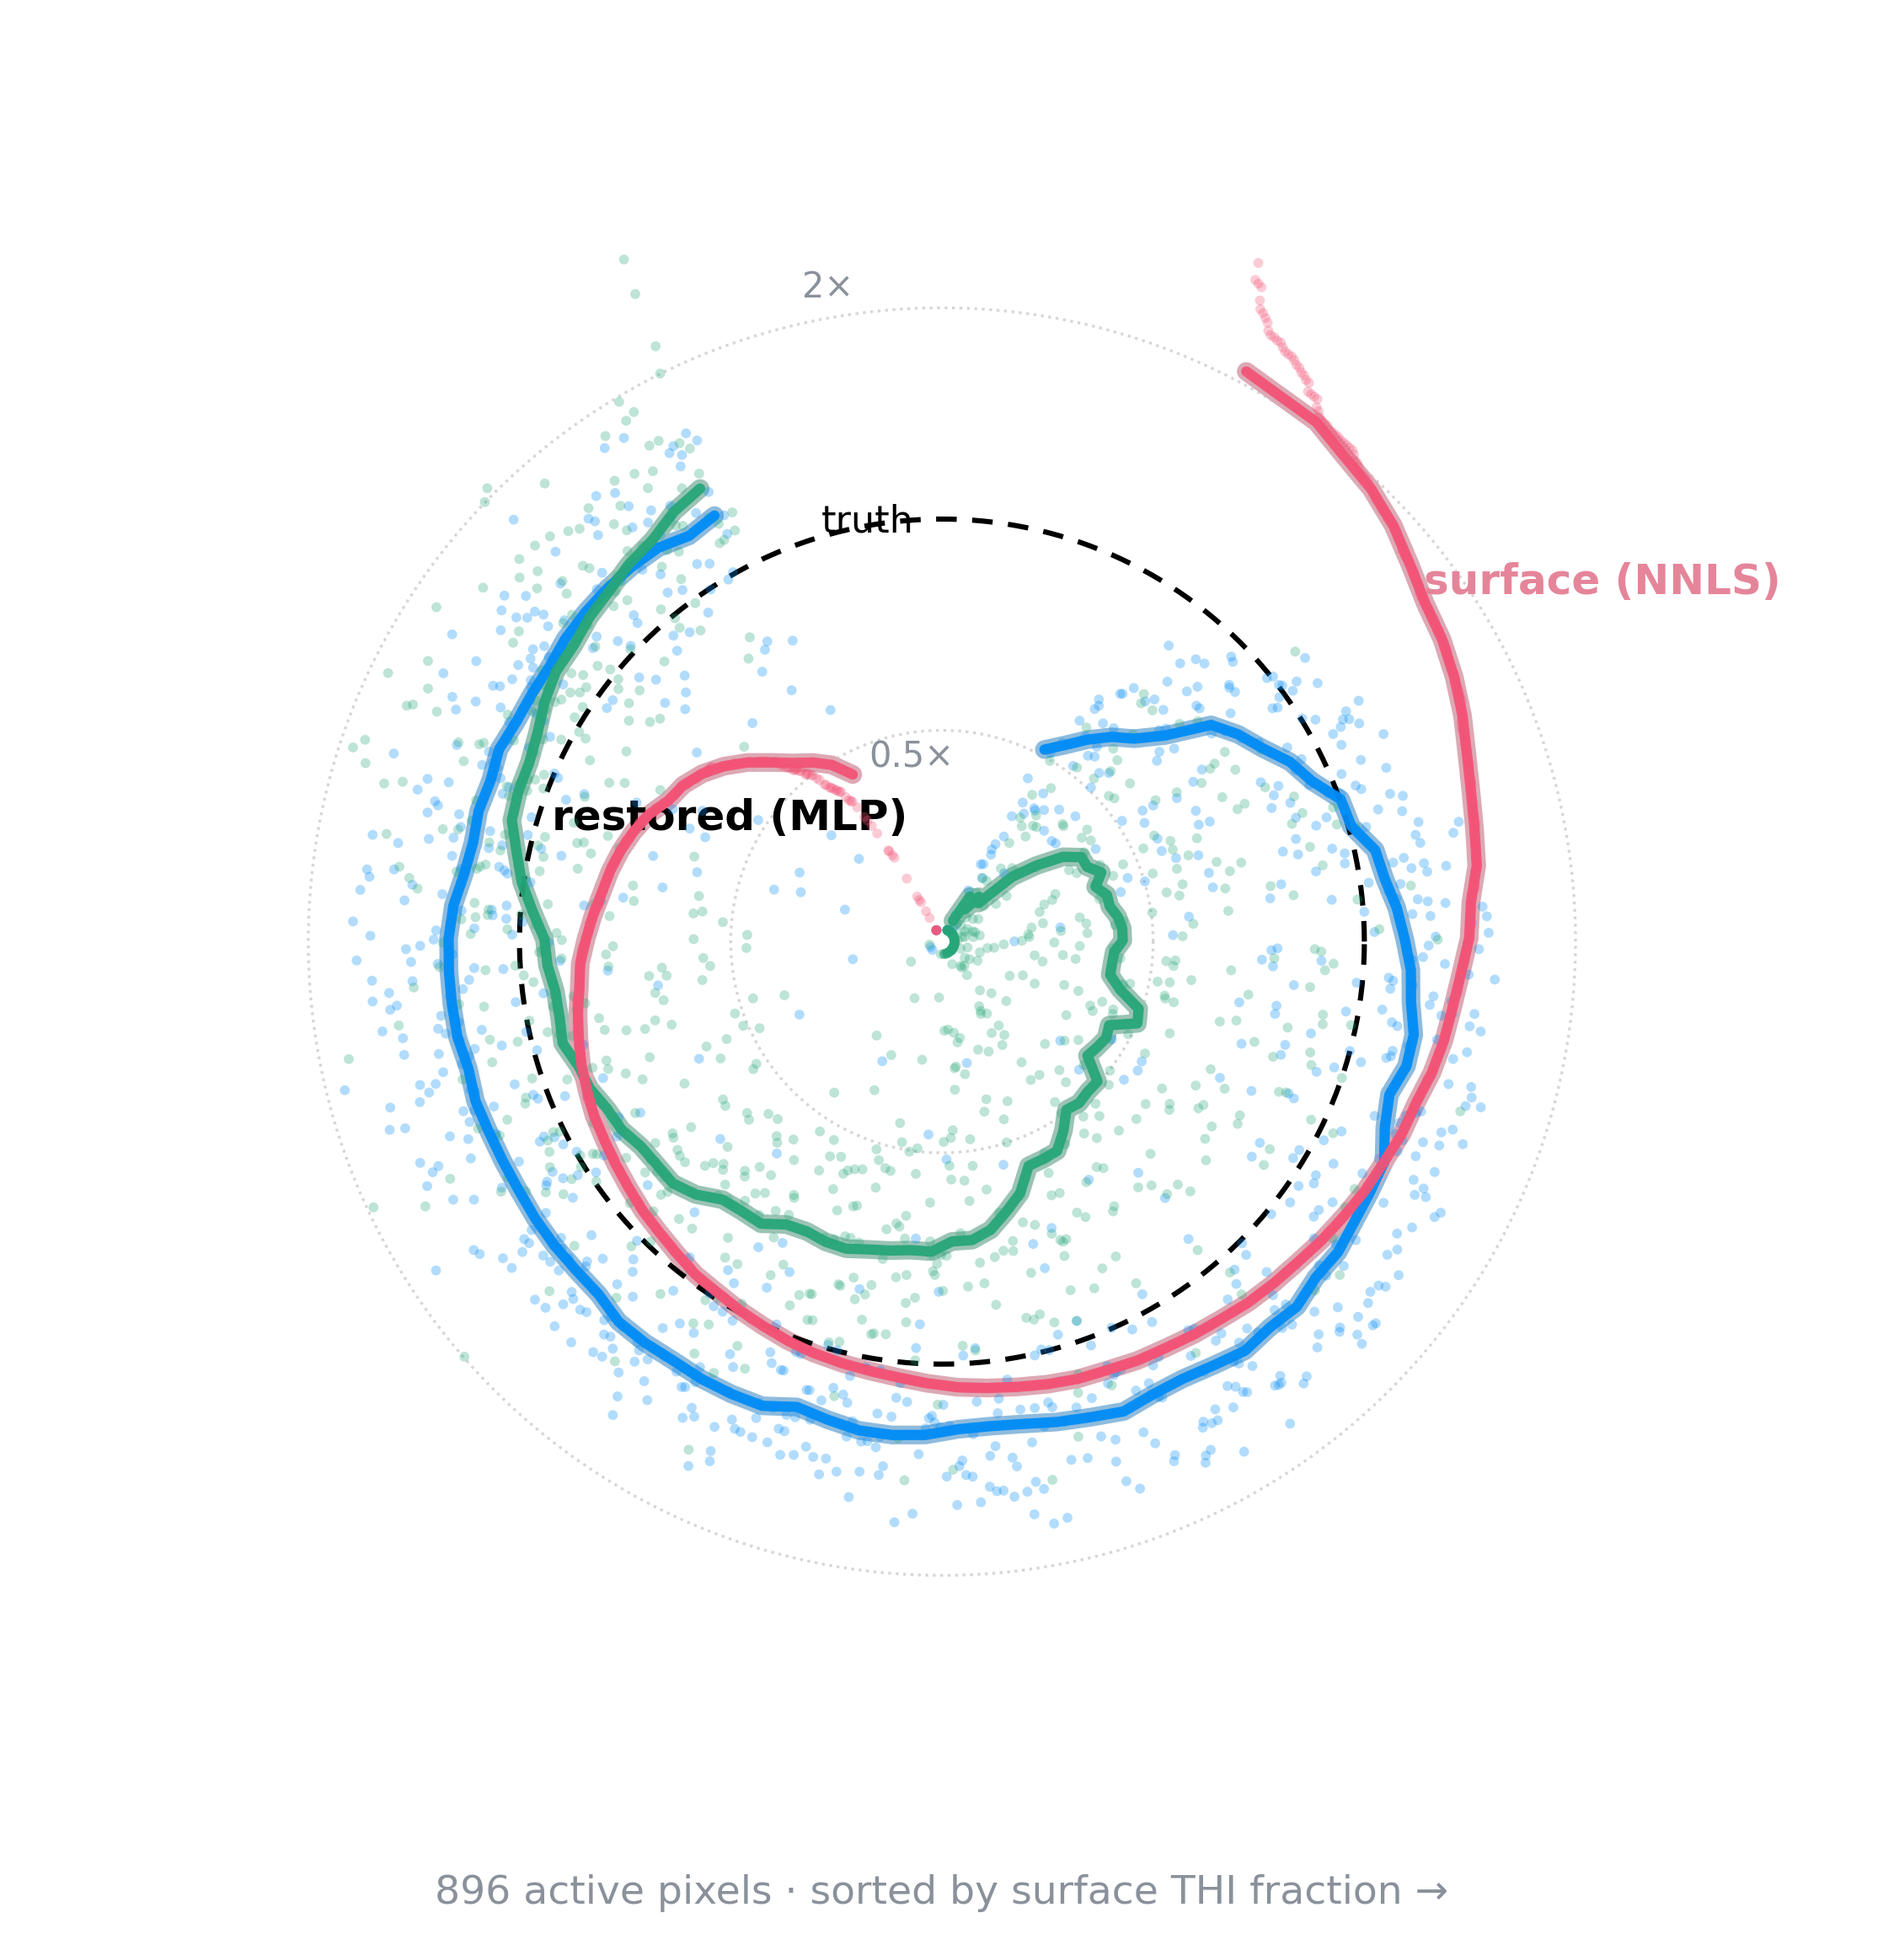
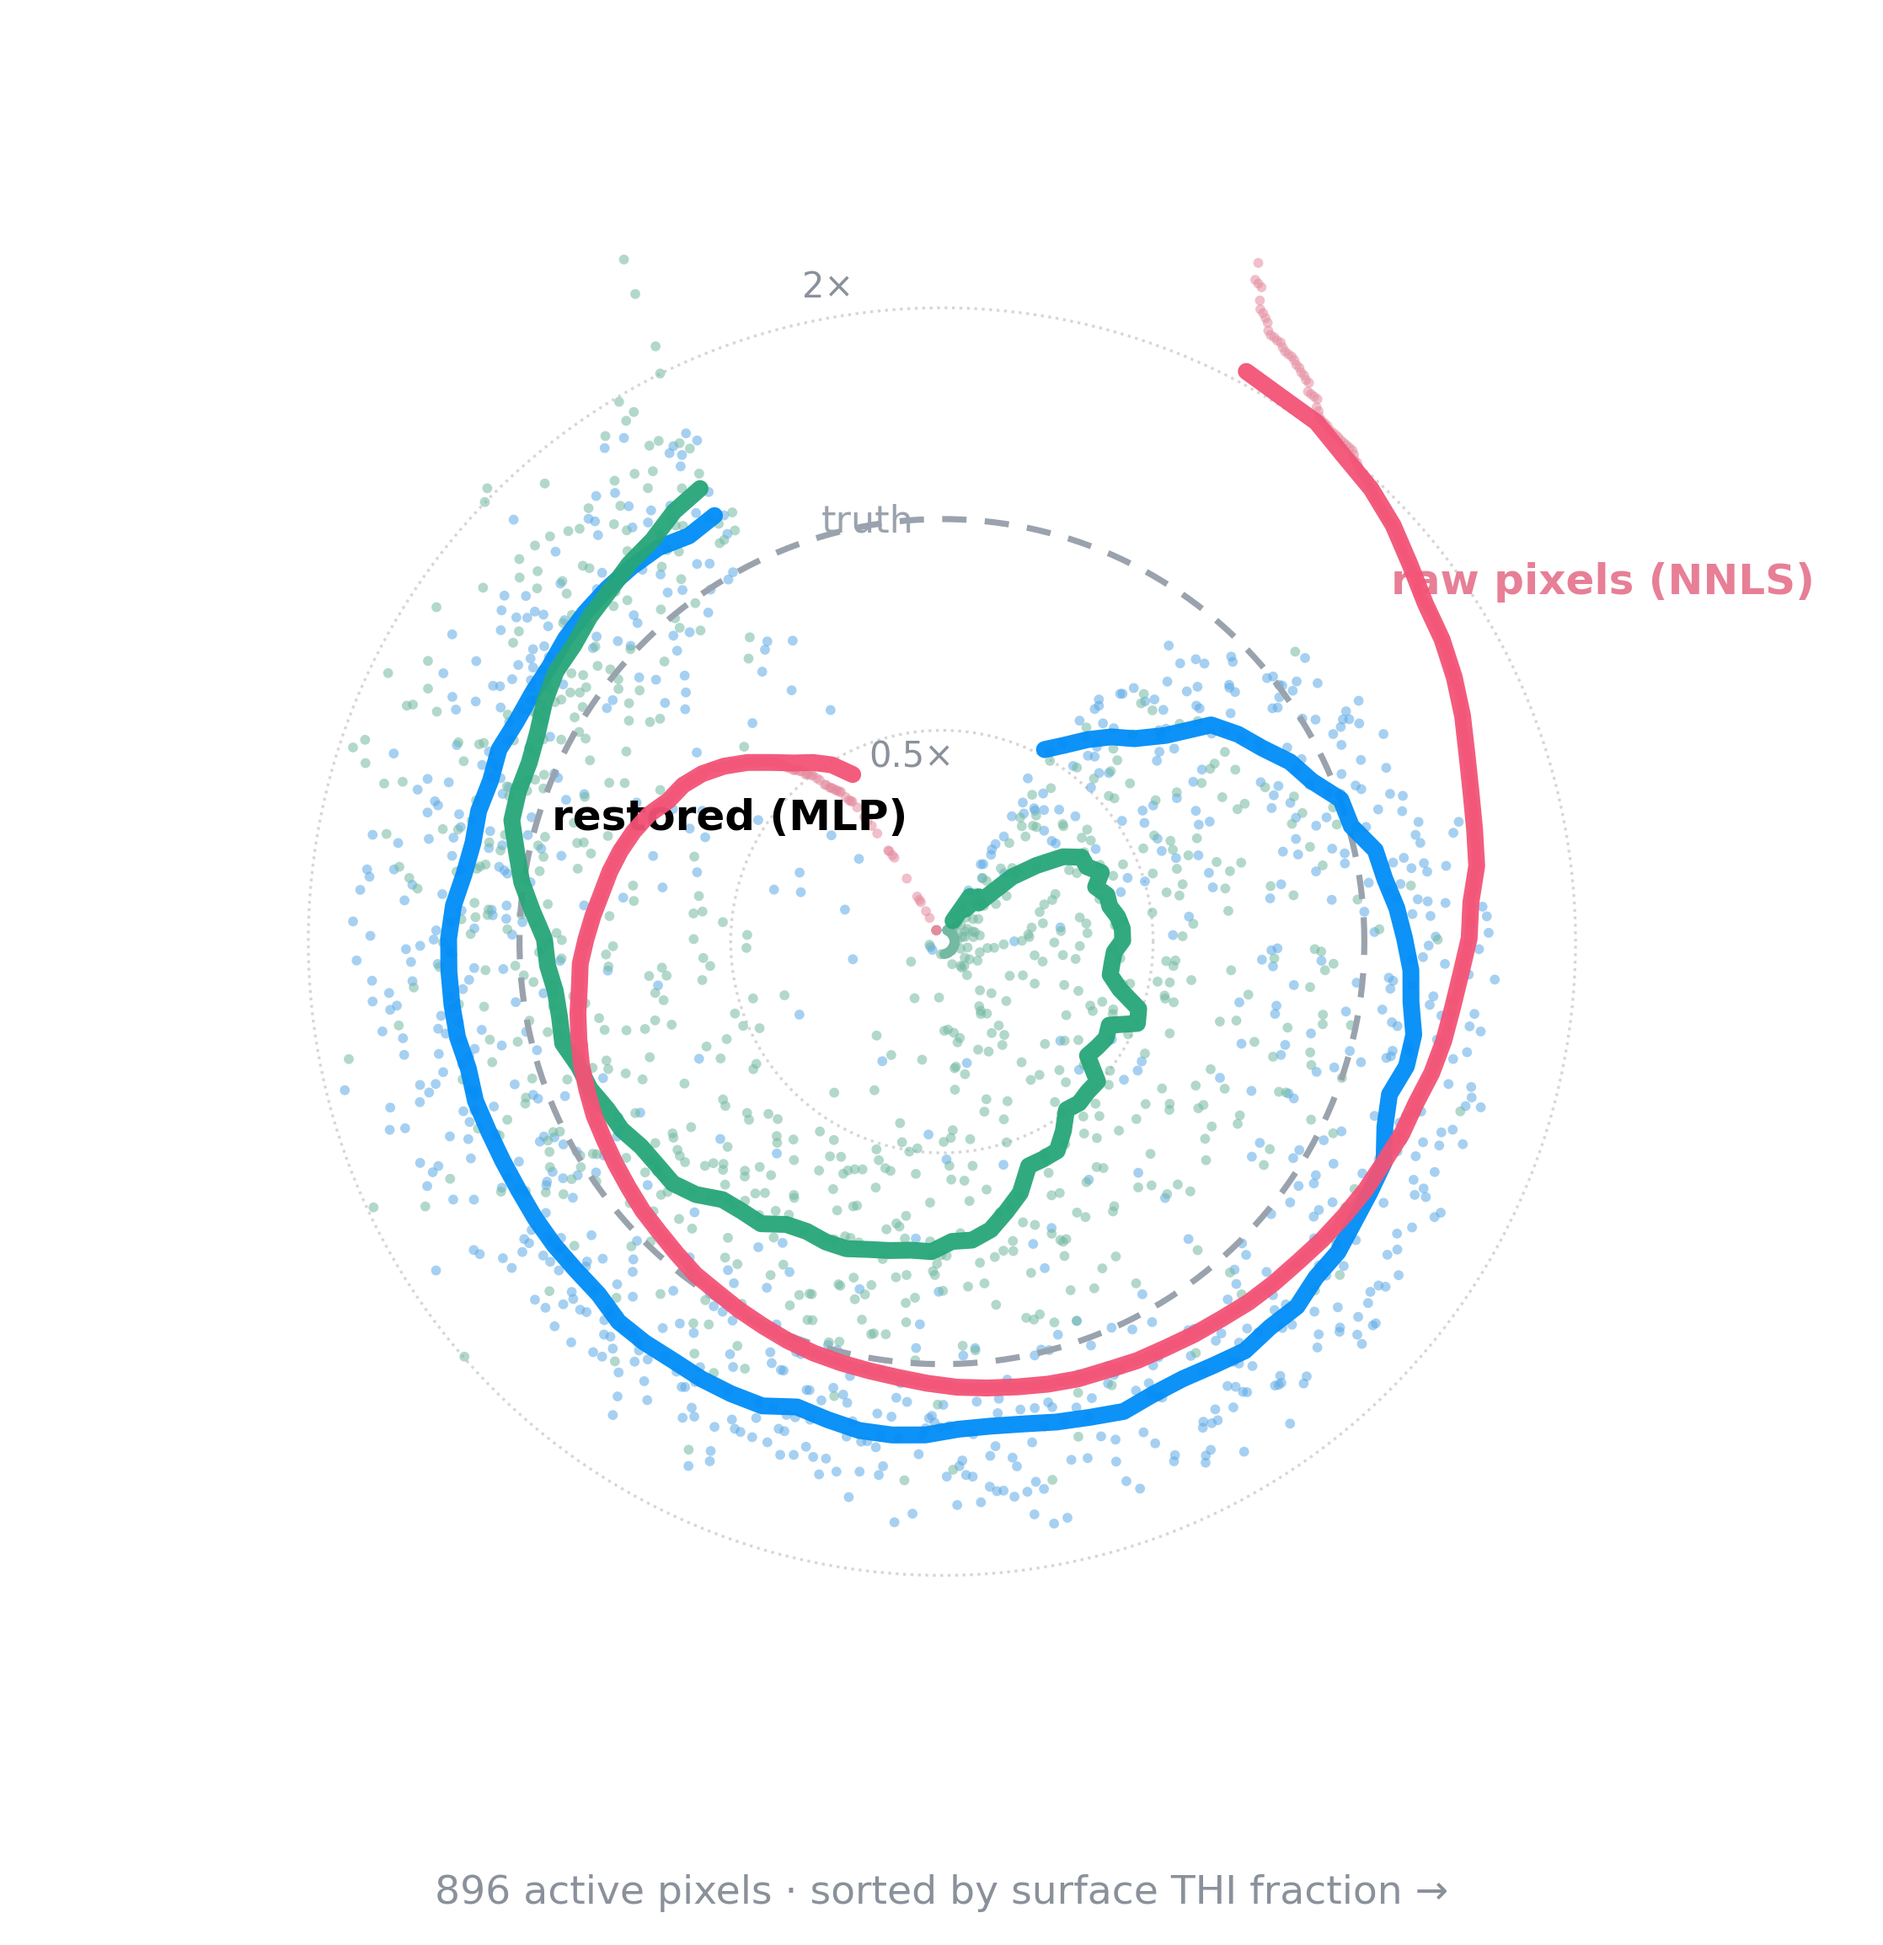
44f: graded green window (1.25/1.5/1.75/2x bands, gold truth ring); 58d/60: grammar = raw NNLS dots (muted) vs bold restored curves, grey truth

diff --git a/documentation/scripts/fig44f_spiral_graded.py b/documentation/scripts/fig44f_spiral_graded.py
@@ -1,0 +1,122 @@
+# -*- coding: utf-8 -*-
+"""44f — guided spiral, 초록 창을 단계 그라데이션으로.
+
+44e에서 바뀐 것: 평평한 0.5–2× 초록 창 대신 truth에서 멀어질수록 옅어지는
+동심 밴드(±1.25, 1.5, 1.75, 2×; log 대칭). 점이 어느 밴드에 앉는지로
+"얼마나 잘 복원됐는지"가 바로 읽힌다. 점 색 = Pure/colors.json.
+개별판은 무자막(조립용), strip에는 작은 배율 라벨.
+
+데이터: 17_composition_all_conditions_master.csv (92조건, imbalance 제외;
+성분이 든 조건만 → 패널당 85점: 표면(흰) 85 + 복원(색) 85).
+
+실행:  python -u fig44f_spiral_graded.py
+"""
+import csv
+import os
+import sys
+
+import numpy as np
+
+HERE = os.path.dirname(os.path.abspath(__file__))
+sys.path.insert(0, HERE)
+import labfig  # noqa: E402
+
+import matplotlib
+
+matplotlib.use("Agg")
+import matplotlib.pyplot as plt
+
+RES = os.path.join(HERE, "..", "results")
+INK = "#20262e"
+MUTE = "#a6acb5"
+WINDOW_GREEN = "#1a9850"
+CO = {s: labfig.CO[s] for s in ("DQ", "TBZ", "THI")}
+
+rows = [r for r in csv.DictReader(
+    open(os.path.join(RES, "17_composition_all_conditions_master.csv"),
+         encoding="utf-8-sig")) if r["imbalance_100x"] == "0"]
+RMAX = 2.0
+PAD = 0.30
+# truth에서 바깥쪽으로 옅어지는 밴드 경계(배율)와 흰색 혼합비.
+# 투명 PNG에서 알파는 뷰어마다 다르게 보여서 불투명 단계색으로 만든다.
+GRADE = [(1.25, 0.45), (1.5, 0.62), (1.75, 0.76), (2.0, 0.88)]
+
+
+def _band_color(f_white):
+    from matplotlib.colors import to_rgb
+    r, g, b = to_rgb(WINDOW_GREEN)
+    return (r + (1 - r) * f_white, g + (1 - g) * f_white,
+            b + (1 - b) * f_white)
+
+
+def rad(x):
+    return np.clip(np.log2(np.clip(x, 1e-3, None)), -RMAX, RMAX) + RMAX
+
+
+def draw_sp(s, ax, labels=False):
+    recs = []
+    for r in rows:
+        t = float(r[f"Ratio_{s}_True"])
+        if t <= 0:
+            continue
+        recs.append((float(r[f"Ratio_{s}_NNLS_Pred"]) / t,
+                     float(r[f"Ratio_{s}_MLP_heldout"]) / t))
+    recs.sort(key=lambda x: x[0])
+    n = len(recs)
+    ang = np.deg2rad(100) + np.linspace(0, np.deg2rad(340), n)
+    rs = np.array([rad(a) for a, _ in recs])
+    rm = np.clip(np.array([rad(b) for _, b in recs]), 0.10, 2 * RMAX - 0.06)
+    th = np.linspace(0, 2 * np.pi, 240)
+    lo = 1.0
+    for f, fw in GRADE:  # log 대칭: [1/f, 1/lo]와 [lo, f]
+        c = _band_color(fw)
+        ax.fill_between(th, rad(lo), rad(f), color=c, lw=0, zorder=0)
+        ax.fill_between(th, rad(1 / f), rad(1 / lo), color=c, lw=0, zorder=0)
+        lo = f
+    ax.plot(th, np.full_like(th, RMAX), color="#e6b93c", lw=2.2, zorder=2)
+    for f, _ in GRADE:
+        for v in (f, 1 / f):
+            ax.plot(th, np.full_like(th, rad(v)), color="white", lw=0.7,
+                    alpha=0.85, zorder=1)
+    for a, r0, r1 in zip(ang, rs, rm):
+        if abs(r1 - r0) < 0.05:
+            continue
+        ax.annotate("", xy=(a, r1), xytext=(a, r0), zorder=3,
+                    arrowprops=dict(arrowstyle="-|>", color=MUTE, lw=0.6,
+                                    alpha=0.55, shrinkA=1, shrinkB=3,
+                                    mutation_scale=6))
+    ax.scatter(ang, rs, s=11, facecolor="white", edgecolor=MUTE,
+               linewidth=0.8, zorder=4)
+    ax.scatter(ang, rm, s=17, color=CO[s], alpha=0.9, edgecolor="white",
+               linewidth=0.3, zorder=5)
+    if labels:
+        import matplotlib.patheffects as pe
+        halo = [pe.withStroke(linewidth=1.6, foreground="white")]
+        a0 = np.deg2rad(96)
+        ax.text(a0, RMAX, "1×", fontsize=5.6, color="#8a6d1a", ha="center",
+                va="center", zorder=6, path_effects=halo)
+        for f, _ in GRADE:
+            ax.text(a0, rad(f), f"{f:g}×", fontsize=5.0, color="#3f454c",
+                    ha="center", va="center", zorder=6, path_effects=halo)
+        ax.text(a0, rad(1 / 2), "0.5×", fontsize=5.0, color="#3f454c",
+                ha="center", va="center", zorder=6, path_effects=halo)
+    ax.set_xticks([])
+    ax.set_yticks([])
+    ax.set_ylim(0, 2 * RMAX + PAD)
+    ax.spines["polar"].set_visible(False)
+
+
+for s in ("THI", "TBZ", "DQ"):
+    fig, ax = plt.subplots(figsize=(4.9, 4.9), subplot_kw=dict(polar=True))
+    draw_sp(s, ax)
+    fig.savefig(os.path.join(RES, f"44f_spiral_graded_notext_{s}.png"),
+                dpi=300, transparent=True, bbox_inches="tight",
+                pad_inches=0.02)
+    plt.close(fig)
+fig, axs = plt.subplots(1, 3, figsize=(13.8, 4.7), subplot_kw=dict(polar=True))
+for ax, s in zip(axs, ("THI", "TBZ", "DQ")):
+    draw_sp(s, ax, labels=True)
+fig.subplots_adjust(wspace=0.08)
+fig.savefig(os.path.join(RES, "44f_spiral_graded_strip.png"), dpi=300,
+            transparent=True, bbox_inches="tight", pad_inches=0.02)
+print("saved 44f x4")

diff --git a/documentation/scripts/fig60_ink_pixels_spiral.py b/documentation/scripts/fig60_ink_pixels_spiral.py
@@ -2,8 +2,8 @@
 """60 — 잉크 글씨맵의 활성 픽셀들을 스파이럴(폴라) 문법으로.
 
 제조 진실 12:12:12 → 참 조성 1/3씩. 픽셀마다
-  표면(NNLS ratio) = 저채도 굵은 running-median 곡선,
-  복원(MLP)       = 고채도 점 + 가는 running-median 곡선,
+  raw(NNLS ratio) = 저채도 점,
+  복원(MLP)       = 고채도 굵은 running-median 곡선,
 반지름 = 참값(1/3) 대비 배율(log2, ±2 클립), 점선 원 = truth.
 각도 = 표면 THI 분율 순위(310° 스팬). 색 = Pure/colors.json.
 
@@ -95,26 +95,23 @@ def runmed(vals, win=6.0):
 
 fig, ax = plt.subplots(figsize=(7.0, 7.0), subplot_kw=dict(polar=True))
 th = np.linspace(0, 2 * np.pi, 240)
-ax.plot(th, np.full_like(th, RMAX), color=INK, lw=1.1, ls=(0, (4, 3)), zorder=3)
+ax.plot(th, np.full_like(th, RMAX), color="#9aa3ad", lw=1.3, ls=(0, (4, 3)), zorder=3)
 for f in (0.5, 2.0):
     ax.plot(th, np.full_like(th, rad(f)), color="0.84", lw=0.6, ls=":", zorder=1)
 
-# 표면(NNLS): 저채도 굵은 곡선
+# raw(NNLS): 저채도 점
 for k, s in enumerate(ORDER):
     e = Rsurf[sel, k] / TRUE_SHARE
-    xs, ys = runmed(e)
-    ax.plot(ang(xs), np.clip(rad(ys), 0.06, 2 * RMAX + 0.1), color=mute(CO[s]),
-            lw=4.0, zorder=2, solid_capstyle="round")
-# 복원(MLP): 고채도 점 + 가는 곡선
+    ax.scatter(ang(p), np.clip(rad(e), 0.06, 2 * RMAX + 0.10), s=4.5,
+               color=mute(CO[s], 0.45), alpha=0.55, edgecolor="none", zorder=2)
+# 복원(MLP): 고채도 굵은 running-median 곡선
 for k, s in enumerate(ORDER):
     e = Rres[sel, k] / TRUE_SHARE
-    ax.scatter(ang(p), np.clip(rad(e), 0.06, 2 * RMAX - 0.04), s=4.5,
-               color=CO[s], alpha=0.30, edgecolor="none", zorder=4)
     xs, ys = runmed(e)
     ax.plot(ang(xs), np.clip(rad(ys), 0.06, 2 * RMAX - 0.04), color=CO[s],
-            lw=2.2, alpha=0.95, zorder=5, solid_capstyle="round")
+            lw=3.6, alpha=0.95, zorder=5, solid_capstyle="round")
 
-ax.text(np.deg2rad(A0 - 15), RMAX + 0.02, "truth", fontsize=8, color=INK,
+ax.text(np.deg2rad(A0 - 15), RMAX + 0.02, "truth", fontsize=8, color="#9aa3ad",
         ha="center", va="center")
 ax.text(np.deg2rad(A0 - 15), rad(2.0) + 0.10, "2×", fontsize=7.5,
         color="#8a919b", ha="center")
@@ -123,8 +120,8 @@ ax.text(np.deg2rad(A0 - 15), rad(0.5) - 0.16, "0.5×", fontsize=7.5,
 ax.text(float(ang(50)), 2 * RMAX + 0.55,
         f"{len(sel)} active pixels · sorted by surface THI fraction →",
         fontsize=8.5, color="#8a919b", ha="center")
-ax.text(float(ang(88)), rad(2.9), "surface (NNLS)", fontsize=9,
-        color=mute(CO["THI"], 0.4), fontweight="bold", ha="center")
+ax.text(float(ang(88)), rad(2.9), "raw pixels (NNLS)", fontsize=9,
+        color=mute(CO["THI"], 0.35), fontweight="bold", ha="center")
 ax.text(float(ang(12)), rad(0.55), "restored (MLP)", fontsize=9, color=INK,
         fontweight="bold", ha="center")
 ax.set_xticks([])

diff --git a/documentation/scripts/fig58d_competition_cartesian.py b/documentation/scripts/fig58d_competition_cartesian.py
@@ -2,7 +2,8 @@
 """58d — 경쟁과 복원, 데카르트 최종형 (스파이럴 배제).
 
 x = 용액의 참 THI 조성(%), y = 참값 대비 배율(log2).
-실측 표면(굵은 저채도) = 경쟁흡착의 왜곡, 복원(가는 고채도) = MLP held-out.
+점(저채도) = raw NNLS 표면 = 경쟁흡착의 왜곡,
+굵은 곡선(고채도) = MLP held-out 복원 running median.
 데이터: documentation/results/17_composition_all_conditions_master.csv
 (92조건, imbalance 100x 제외; Ratio_* 열은 % 단위 → 행 정규화).
 
@@ -68,24 +69,25 @@ def runmed(x, e, win=9):
 fig, ax = plt.subplots(figsize=(7.0, 4.3))
 ax.set_yscale("log", base=2)
 ax.axhspan(q1, q3, color="#7d848c", alpha=0.13, zorder=1)
-ax.axhline(1.0, color=INK, lw=1.1, ls=(0, (4, 3)), zorder=3)
+ax.axhline(1.0, color="#9aa3ad", lw=1.3, ls=(0, (4, 3)), zorder=3)
 for f in (0.5, 2.0):
     ax.axhline(f, color="0.84", lw=0.6, ls=":", zorder=1)
 for s in ("DQ", "TBZ", "THI"):
-    xs, ys = runmed(np.array(data[s]["x"]), np.array(data[s]["e0"]))
-    ax.plot(xs, np.clip(ys, 0.15, None), color=mute(CO[s]), lw=4.0, zorder=2,
-            solid_capstyle="round")
+    x = np.array(data[s]["x"])
+    e0 = np.array(data[s]["e0"])
+    ax.scatter(x, np.clip(e0, 0.16, None), s=13, color=mute(CO[s], 0.45),
+               alpha=0.8, edgecolor="none", zorder=2)
 for s in ("DQ", "TBZ", "THI"):
     xs, ys = runmed(np.array(data[s]["x"]), np.array(data[s]["e1"]))
-    ax.plot(xs, ys, color=CO[s], lw=2.6, alpha=0.95, zorder=5,
+    ax.plot(xs, ys, color=CO[s], lw=3.6, alpha=0.95, zorder=5,
             solid_capstyle="round")
 ax.text(11, 2.55, "surface: THI wins", fontsize=9.5,
-        color=mute(CO["THI"], 0.45), fontweight="bold", ha="left")
+        color=mute(CO["THI"], 0.35), fontweight="bold", ha="left")
 ax.text(72, 0.30, "surface: DQ·TBZ lose", fontsize=9,
-        color=mute(CO["DQ"], 0.45), ha="left")
+        color=mute(CO["DQ"], 0.35), ha="left")
 ax.text(97, 1.24, "restored", fontsize=9, color=INK, fontweight="bold",
         ha="right")
-ax.text(99.2, 1.0, "truth", fontsize=8, color=INK, va="center", ha="left",
+ax.text(99.2, 1.0, "truth", fontsize=8, color="#9aa3ad", va="center", ha="left",
         clip_on=False)
 ax.set_xlim(0, 100)
 ax.set_ylim(0.15, 4.6)
